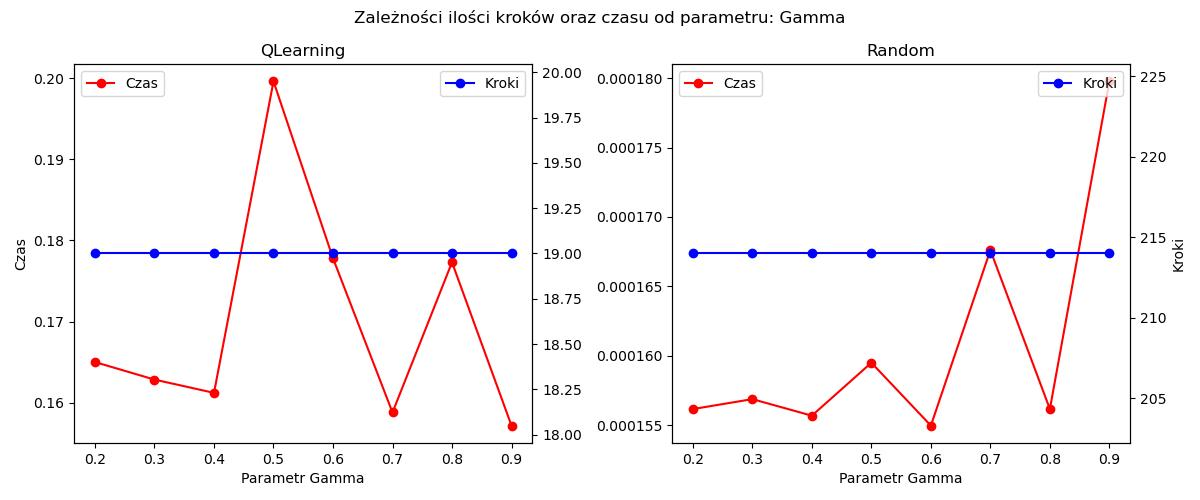
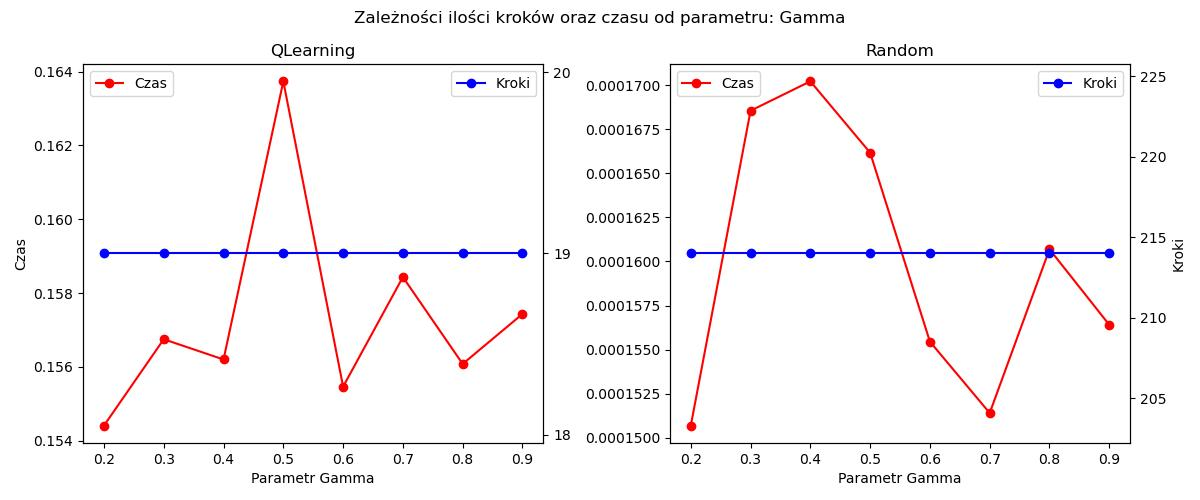
Add argparse for map loading

diff --git a/maze_solver.py b/maze_solver.py
@@ -3,7 +3,7 @@ from random import seed
 from time import time
 
 from q_learning import random_player, train_player, get_way
-from map import simple_gen_map, print_map
+from map import simple_gen_map, print_map, open_map_from_file
 
 parser = argparse.ArgumentParser(description="Solve maze and show statistics.")
 
@@ -42,6 +42,11 @@ parser.add_argument(
     help="seed for random module"
     )
 
+parser.add_argument(
+    "-m", "--map", type=str, required=False,
+    help="path to map file"
+    )
+
 args = parser.parse_args()
 
 map_dict = {
@@ -64,6 +69,7 @@ def maze_solve():
     beta = args.beta
     print_ = args.print
     seed_ = args.seed
+    map_path = args.map
     
     if seed_ is not None:
         seed(seed_)
@@ -79,9 +85,13 @@ def maze_solve():
         end = (10, 10)
 
     time_map_gen = time()
-    the_map = simple_gen_map(map_size, diff_lvl)
-    time_map_gen = time() - time_map_gen
+    if map_path is not None:
+        the_map = open_map_from_file(map_path)
+    else:
+        the_map = simple_gen_map(map_size, diff_lvl)
 
+    time_map_gen = time() - time_map_gen
+    
     time_random_player = time()
     moves_random_player = random_player(
             start_coords=start,

diff --git a/experiments.py b/experiments.py
@@ -1,6 +1,7 @@
 import numpy as np
 import matplotlib.pyplot as plt
 from time import time
+from matplotlib.ticker import MaxNLocator
 import random
 from map import gen_map
 from q_learning import random_player, train_player, get_way
@@ -86,6 +87,7 @@ def make_plots(qx1, qx2, rx1, rx2, y, parameter, file_name):
     ax1.plot(y, qx1, color="red", marker="o", label="Czas")
     ax11 = ax1.twinx()
     ax11.plot(y, qx2, color="blue", marker="o", label="Kroki")
+    ax11.yaxis.set_major_locator(MaxNLocator(integer=True))
     ax1.legend(loc="upper left")
     ax11.legend(loc="upper right")
     

diff --git a/main.py b/main.py
@@ -1,8 +1,8 @@
 from q_learning import random_player, train_player, get_way
 from map import gen_map, open_map_from_file, print_map
 
-WIDTH = 13
-HEIGHT = 13
+WIDTH = 12
+HEIGHT = 12
 FREE = " "
 WALL = "#"
 WAY = "x"
